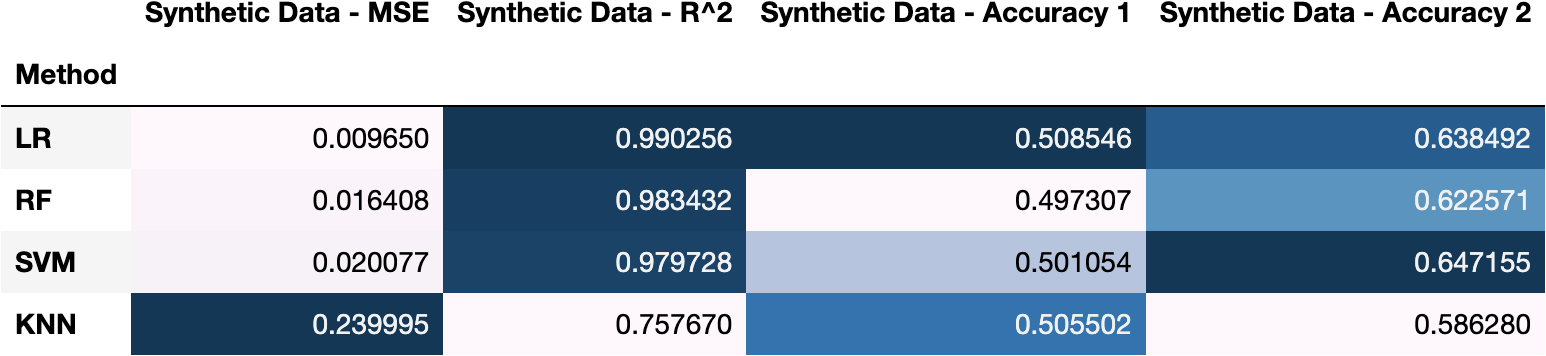
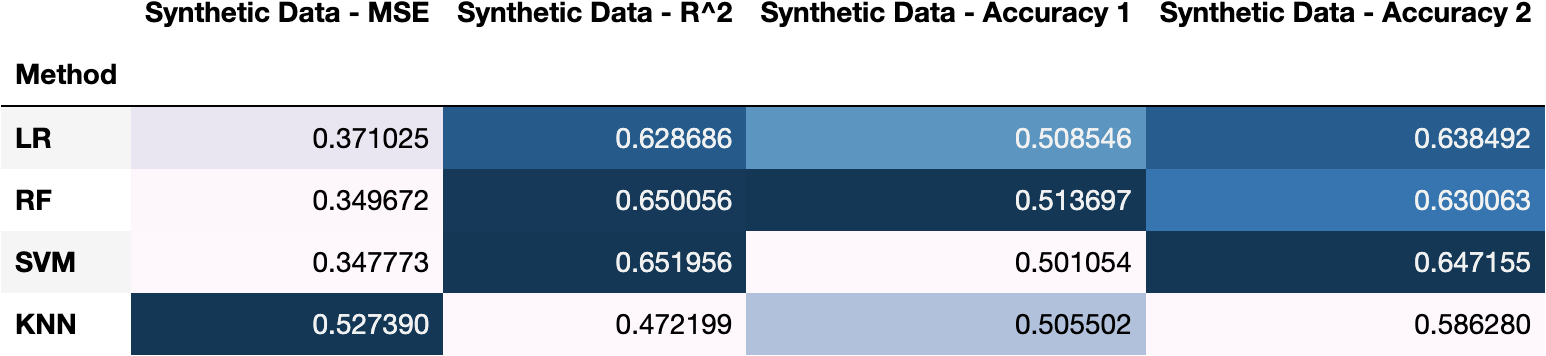
Fixed Error in Y

diff --git a/raw_ik_vs.py b/raw_ik_vs.py
@@ -1,3 +1,5 @@
+import copy
+
 import numpy as np
 from model.supervised_learning import *
 from model.ols import *
@@ -40,11 +42,11 @@ save_text_as_png(print_ols, 'raw_ik')
 
 # Machine Learning
 # Data need to be standardized
-normalized_raw_data = (data_after_dummy)
+normalized_raw_data = norm_standard(data_after_dummy)
 
 # Regression: y is concentration rate, x -- other variables
-y1 = normalized_raw_data.iloc[:, 3].values
-X1 = normalized_raw_data.drop(3, axis=1, inplace=False).values
+y1 = normalized_raw_data.iloc[:, 2].values
+X1 = normalized_raw_data.drop(2, axis=1, inplace=False).values  # column number: 3
 
 # Classification
 # Label y1 -- Buy Sell Type: 'S' and 'B'. 'S' is 1, 'B' is 0

diff --git a/model/supervised_learning.py b/model/supervised_learning.py
@@ -1,4 +1,5 @@
 import pandas as pd
+import numpy as np
 from sklearn.model_selection import train_test_split
 from sklearn import linear_model
 from sklearn.metrics import mean_squared_error, accuracy_score, r2_score
@@ -26,8 +27,14 @@ def norm_standard(df):
     # return (df - mu) / sigma
     scaler = StandardScaler()
     data2 = pd.DataFrame(scaler.fit_transform(data1))
-
     return data2
+
+
+def standard(df):
+    # Standardization
+    mu = np.mean(df, axis=0)
+    sigma = np.std(df, axis=0)
+    return (df - mu) / sigma
 
 
 def create_train_test_dataset(x, y):

diff --git a/synthetic_gaussian_ik.py b/synthetic_gaussian_ik.py
@@ -49,8 +49,8 @@ save_text_as_png(print_ols, 'gaussian_ik')
 normalized_synthetic_data = norm_standard(data_after_dummy)
 
 # Regression: y is concentration rate, x -- other variables
-y1 = normalized_synthetic_data.iloc[:, 3].values
-X1 = normalized_synthetic_data.drop(3, axis=1, inplace=False).values
+y1 = normalized_synthetic_data.iloc[:, 2].values
+X1 = normalized_synthetic_data.drop(2, axis=1, inplace=False).values
 
 # Classification
 # Label y1 -- Buy Sell Type: 'S' and 'B'. 'S' is 1, 'B' is 0
